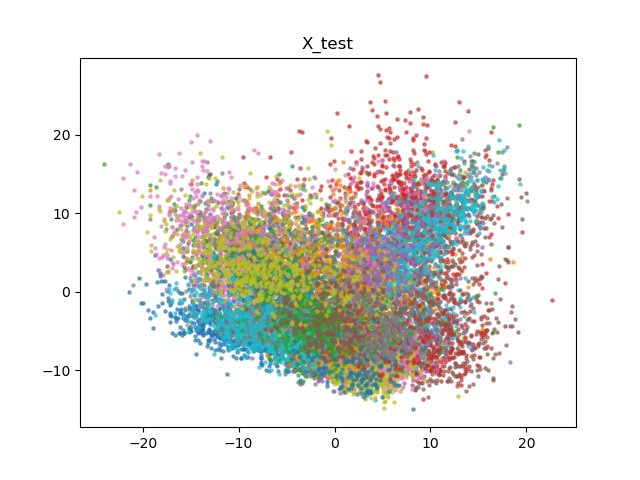
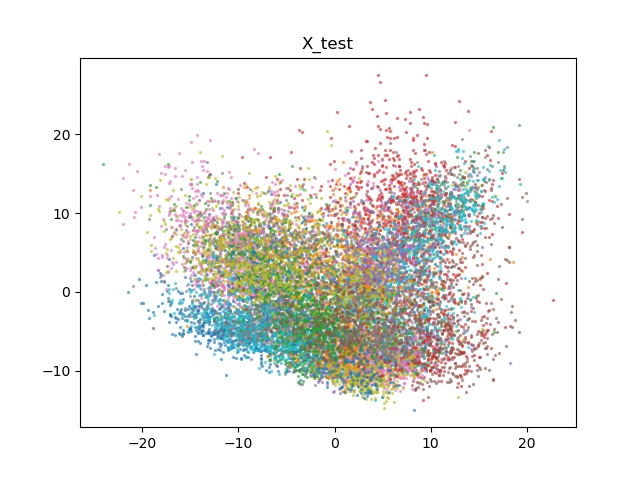
Re-running PCA with RBF kernel

diff --git a/Prj1/Projection/drawScatter.py b/Prj1/Projection/drawScatter.py
@@ -16,13 +16,13 @@ def draw(suffix):
 
     plt.figure()
     for i, label in enumerate(train_categories):
-        plt.scatter(train_2d.loc[train_2d.label==label].x, train_2d.loc[train_2d.label==label].y, s=5, cmap=train_colors[i], alpha=0.6)
+        plt.scatter(train_2d.loc[train_2d.label==label].x, train_2d.loc[train_2d.label==label].y, s=2, cmap=train_colors[i], alpha=0.5)
     plt.title('X_train')
     plt.savefig('X_train_scatter_2d_' + suffix + '.jpg')
 
     plt.figure()
     for i, label in enumerate(test_categories):
-        plt.scatter(test_2d.loc[test_2d.label==label].x, test_2d.loc[test_2d.label==label].y, s=5, cmap=test_colors[i], alpha=0.6)
+        plt.scatter(test_2d.loc[test_2d.label==label].x, test_2d.loc[test_2d.label==label].y, s=2, cmap=test_colors[i], alpha=0.5)
     plt.title('X_test')
     plt.savefig('X_test_scatter_2d_' + suffix + '.jpg')
 

diff --git a/Prj1/Learning/drawScatter.py b/Prj1/Learning/drawScatter.py
@@ -16,13 +16,13 @@ def draw(suffix):
 
     plt.figure()
     for i, label in enumerate(train_categories):
-        plt.scatter(train_2d.loc[train_2d.label==label].x, train_2d.loc[train_2d.label==label].y, s=5, cmap=train_colors[i], alpha=0.6)
+        plt.scatter(train_2d.loc[train_2d.label==label].x, train_2d.loc[train_2d.label==label].y, s=2, cmap=train_colors[i], alpha=0.5)
     plt.title('X_train')
     plt.savefig('X_train_scatter_2d_' + suffix + '.jpg')
 
     plt.figure()
     for i, label in enumerate(test_categories):
-        plt.scatter(test_2d.loc[test_2d.label==label].x, test_2d.loc[test_2d.label==label].y, s=5, cmap=test_colors[i])
+        plt.scatter(test_2d.loc[test_2d.label==label].x, test_2d.loc[test_2d.label==label].y, s=2, cmap=test_colors[i], alpha=0.5)
     plt.title('X_test')
     plt.savefig('X_test_scatter_2d_' + suffix + '.jpg')
 
